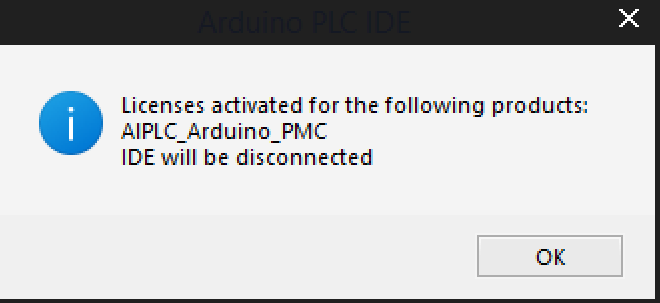
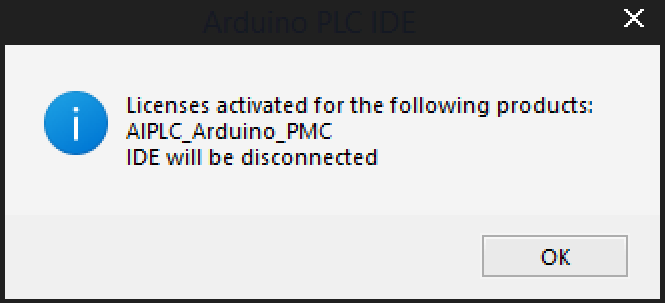
Additional Opta information - Image black bar fixed

diff --git a/content/hardware/05.pro-solutions/solutions-and-kits/portenta-machine-control/tutorials/plc-ide-setup-license/content.md b/content/hardware/05.pro-solutions/solutions-and-kits/portenta-machine-control/tutorials/plc-ide-setup-license/content.md
@@ -29,11 +29,12 @@ The **Arduino PLC IDE** offers the possibility to use **IEC IEC61131-3** program
 
 ### Required Hardware and Software
 
-- Board compatible with the Arduino PLC IDE (Portenta Machine Control)
+- Board compatible with the Arduino PLC IDE (Portenta Machine Control or Opta™)
 - Arduino PLC IDE ([Official Website](https://www.arduino.cc/pro/software-plc-ide))
-- Unique PLC IDE License key for your device (https://store.arduino.cc/products/plc-key-portenta-machine-control)
+- If you have a Portenta Machine Control, you will need an unique PLC IDE License key for your device (https://store.arduino.cc/products/plc-key-portenta-machine-control)
+- If you have an Opta™ you do not need any license key to activate your product. Go to section __License Activation With Pre-Licensed Products (Opta)__ to know more.
 
-***To get the Arduino PLC IDE and the PLC IDE License for your device, please visit the **Arduino software page**** and the** [store page](https://store.arduino.cc/plc-key-portenta-machine-control)***
+***To get the Arduino PLC IDE and the PLC IDE License for your device, please visit the **Arduino software page** and the [store page](https://store.arduino.cc/plc-key-portenta-machine-control)***
 
 ## Instructions
 
